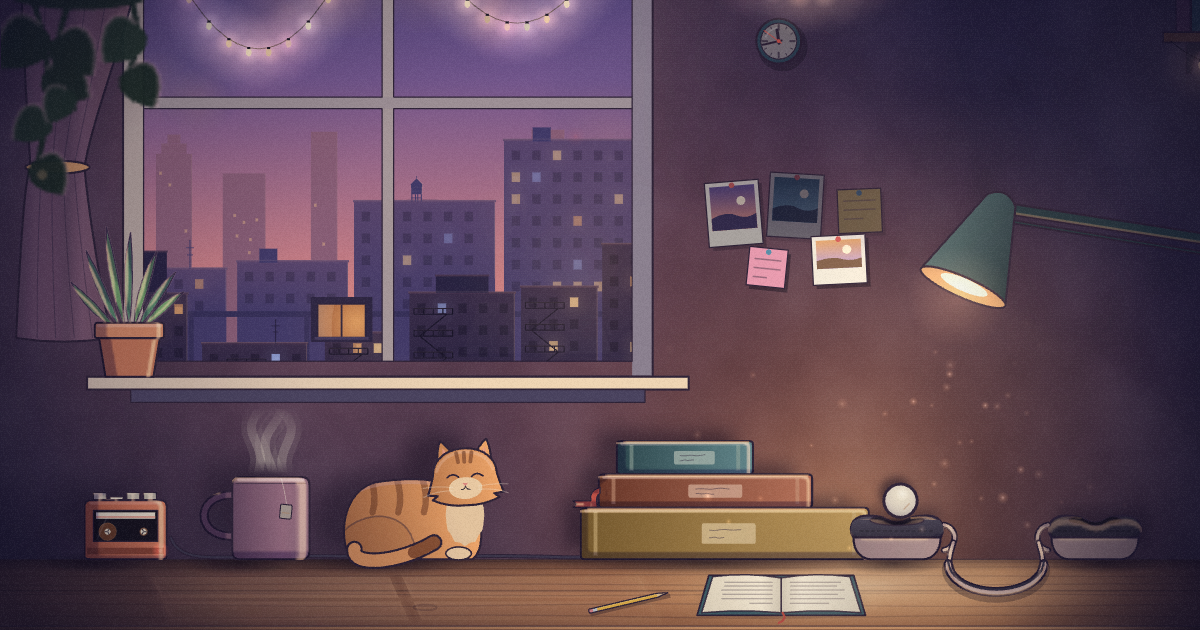
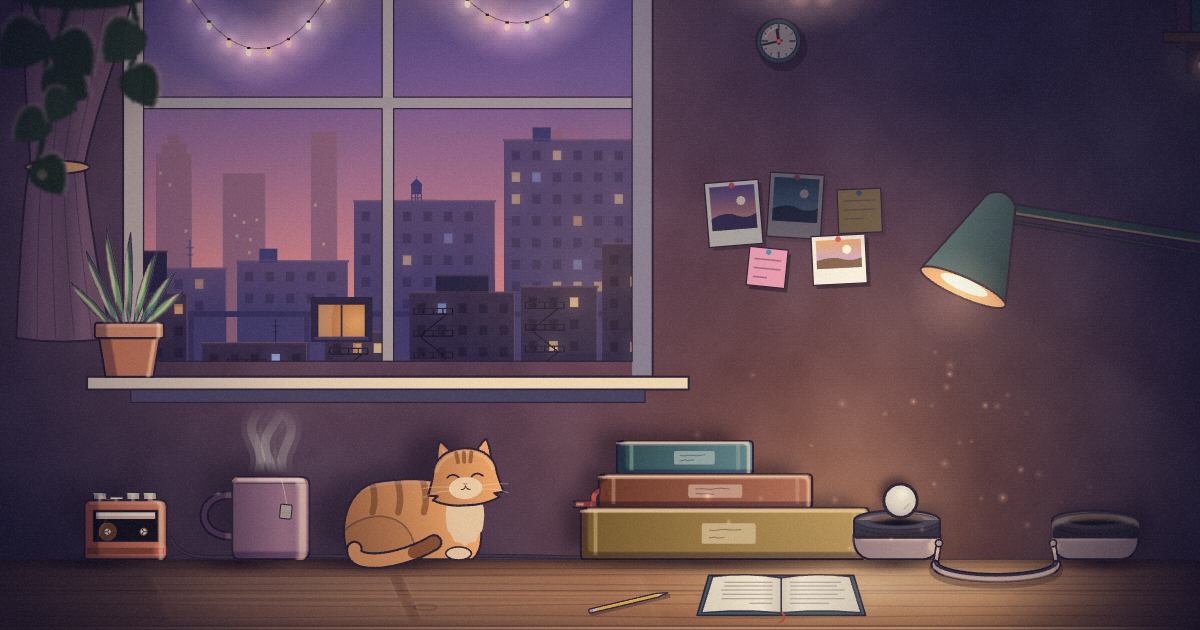
Soft Lamp: headphones at last, and the kitten on its feet
The ear cups are drawn face up as the desk is seen: each cushion an oval ring
round its speaker cloth (the ball's seat, unchanged), its side a band of
fabric down to the shell. Pivots and slider arms replace the ring yokes that
read as mug handles, and the band lies in a shallow U. A cold look now reads
'a pair of over-ear headphones lying on the desk, cups up'. Standing, the
kitten's body gathers under it and its hind legs bend at the hock.

Changed region(s): [[0.7092, 0.8143, 0.9558, 0.9651]]

diff --git a/apps/rube/src/shows/versions/soft-lamp/lamp/scene.ts b/apps/rube/src/shows/versions/soft-lamp/lamp/scene.ts
@@ -2,7 +2,7 @@ import type p5 from 'p5'
 import { mixHex, type Piece, type PieceCtx } from '../../../../parts'
 import { BOOKS, CAT, CUP, DESK, FAR_CUP, GLASS, LAMP, MUG, POT, PROPS, R, SILL, WALKMAN, WINDOW, type Book } from './desk'
 import { MUSIC_END, heldAt, smooth } from './music'
-import { LANDINGS, NODS, SHOULDER, ballAt, squashAt } from './route'
+import { LANDINGS, NODS, ballAt, squashAt } from './route'
 import { cat, climbAt } from './cat'
 import { formed, plaster } from './form'
 import { openBook } from './book'
@@ -602,19 +602,73 @@ const SHELL_LIT = '#EDC9AE'
 const PAD = '#221E2A'
 const PAD_LIT = '#4E4858'
 
-/** The near cup's cushion, from the side: a soft pad with rounded shoulders and a hollow between them. */
+/**
+ * A cup's cushion, lying face up, seen a little from above as the desk is: its top an oval ring round the speaker
+ * cloth (the ball's seat, `CLOTH`), and below its front edge, the cushion's side, a thin band of the fabric down to the
+ * shell. `top` is where the cushion's top is pressed to (the kick, the snare).
+ */
+const PAD_RY = 0.075
+const padRX = (): number => CUP.halfW * 0.94 - 0.005
+const cloth = (top: number) => ({ cy: top + 0.035, rx: CUP.halfW * 0.94 * 0.62, ry: 0.042 })
 function cushionPath(ctx: Ctx, top: number, x = CUP.x): void {
-  const w = CUP.halfW
-  const s = SHOULDER
+  const rx = padRX()
+  const cy = top + 0.035
   const base = CUP.top + 0.17
   ctx.beginPath()
-  ctx.moveTo(x - w + 0.02, base)
-  ctx.bezierCurveTo(x - w - 0.03, base - 0.08, x - w + 0.02, top, x - s - 0.02, top)
-  ctx.quadraticCurveTo(x - s * 0.55, top, x - s * 0.4, top + CUP.hollow * 0.45)
-  ctx.quadraticCurveTo(x, top + CUP.hollow * 1.35, x + s * 0.4, top + CUP.hollow * 0.45)
-  ctx.quadraticCurveTo(x + s * 0.55, top, x + s + 0.02, top)
-  ctx.bezierCurveTo(x + w - 0.02, top, x + w + 0.03, base - 0.08, x + w - 0.02, base)
+  ctx.moveTo(x - rx, base - 0.012)
+  ctx.lineTo(x - rx, cy)
+  ctx.ellipse(x, cy, rx, PAD_RY, 0, Math.PI, Math.PI * 2)
+  ctx.lineTo(x + rx, base - 0.012)
+  ctx.quadraticCurveTo(x + rx, base, x + rx - 0.02, base)
+  ctx.lineTo(x - rx + 0.02, base)
+  ctx.quadraticCurveTo(x - rx, base, x - rx, base - 0.012)
   ctx.closePath()
+}
+
+/**
+ * The cushion's fabric, all but the cloth: its side band, its top ring lighter where it faces up, the edge between
+ * them, the stitched seam round its side, and the lamp along its far rim toward it. Drawn whole for the cup, and again
+ * over the ball's foot for the lip.
+ */
+function padFabric(ctx: Ctx, lw: number, x: number, top: number, l: number, side: 1 | -1, warm: string): void {
+  const rx = padRX()
+  const cy = top + 0.035
+  const base = CUP.top + 0.17
+  // The side band.
+  cushionPath(ctx, top, x)
+  const sg = ctx.createLinearGradient(0, cy, 0, base)
+  sg.addColorStop(0, lit(PAD, PAD_LIT, l * 0.75))
+  sg.addColorStop(1, lit(PAD, PAD_LIT, l * 0.35))
+  ctx.fillStyle = sg
+  ctx.fill()
+  // The top ring, facing up into the light.
+  ctx.beginPath()
+  ctx.ellipse(x, cy, rx, PAD_RY, 0, 0, Math.PI * 2)
+  const tg = ctx.createLinearGradient(x - side * rx, 0, x + side * rx, 0)
+  tg.addColorStop(0, lit(PAD, PAD_LIT, l * 0.85 + 0.05))
+  tg.addColorStop(1, lit(PAD, PAD_LIT, Math.min(1, l * 1.15 + 0.1)))
+  ctx.fillStyle = tg
+  ctx.fill()
+  // Its front edge, where the top turns down into the side.
+  ctx.beginPath()
+  ctx.ellipse(x, cy, rx, PAD_RY, 0, 0, Math.PI)
+  ctx.lineWidth = lw * 0.7
+  ctx.strokeStyle = rgba(INK, 0.6)
+  ctx.stroke()
+  // The seam, round the side.
+  ctx.setLineDash([0.025, 0.02])
+  ctx.beginPath()
+  ctx.ellipse(x, cy + (base - cy - PAD_RY) * 0.45 + 0.01, rx - 0.01, PAD_RY, 0, Math.PI * 0.08, Math.PI * 0.92)
+  ctx.lineWidth = lw * 0.5
+  ctx.strokeStyle = rgba('#000000', 0.32)
+  ctx.stroke()
+  ctx.setLineDash([])
+  // The lamp along its far rim, on the side toward it.
+  ctx.beginPath()
+  ctx.ellipse(x, cy, rx - 0.012, PAD_RY - 0.01, 0, side > 0 ? Math.PI * 1.55 : Math.PI * 1.05, side > 0 ? Math.PI * 1.95 : Math.PI * 1.45)
+  ctx.lineWidth = 0.014
+  ctx.strokeStyle = rgba(warm, 0.5 * l)
+  ctx.stroke()
 }
 
 function headphones(ctx: Ctx, lw: number, t: number): void {
@@ -626,33 +680,30 @@ function headphones(ctx: Ctx, lw: number, t: number): void {
   // A pair, set down face up: both cups on their backs, cushions up, the band standing between them from yoke to yoke.
   // Each cup hangs in a yoke, a fork round its middle on the side toward the other.
   const w = CUP.halfW * 0.94
-  const nearYoke = { x: CUP.x + w + 0.01, y: CUP.top + 0.17, r: 0.1 }
   const fx = FAR_CUP.x
   const farTop = -FAR_CUP.h + farPress(t)
-  const farYoke = { x: fx - w - 0.01, y: CUP.top + 0.17, r: 0.1 }
-  const a = { x: nearYoke.x + nearYoke.r, y: nearYoke.y }
-  const b = { x: farYoke.x - farYoke.r, y: farYoke.y }
-  // The band, lying flat on the desk as headphones set down face up lie: from each yoke down onto the wood and round
-  // toward us in a U, the cream of its outside and the dark of its padding along its inner edge, the lamp along its
-  // near rim. Drawn last, over the cups' feet, being nearer.
-  // A half oval on the wood: its ends at the cups' feet, its round toward us.
-  const ex = (a.x + b.x) / 2
-  const erx = (b.x - a.x) / 2 + 0.05
-  const ery = DESK.top * 0.42
-  const ey = DESK.y + 0.035
+  // Each cup hangs by a pivot on its side toward the other, a slider arm from it down to the band.
+  const pivots = [{ x: CUP.x + w - 0.012, y: CUP.top + 0.215 }, { x: fx - w + 0.012, y: CUP.top + 0.215 }]
+  // The band, lying flat on the desk as headphones set down face up lie: from each arm round toward us in a shallow U
+  // on the wood, the cream of its outside and the dark of its padding along its inner edge, the lamp along its near
+  // rim. Drawn last, over the cups' feet, being nearer.
+  const ex = (pivots[0].x + pivots[1].x) / 2
+  const erx = (pivots[1].x - pivots[0].x) / 2 + 0.03
+  const ery = DESK.top * 0.2
+  const ey = DESK.y + 0.04
   const band = (dy = 0) => {
     ctx.beginPath()
     ctx.ellipse(ex, ey + dy, erx, ery, 0, 0, Math.PI)
   }
-  // Each yoke's arm down to it, beside the cup.
+  // The arms: from each pivot, down the cup's side, to the band's ends on the wood.
   const arms = () => {
     ctx.beginPath()
-    ctx.moveTo(a.x - 0.01, a.y + 0.04)
-    ctx.quadraticCurveTo(a.x - 0.04, ey - 0.08, ex - erx + 0.005, ey)
-    ctx.moveTo(b.x + 0.01, b.y + 0.04)
-    ctx.quadraticCurveTo(b.x + 0.04, ey - 0.08, ex + erx - 0.005, ey)
+    ctx.moveTo(pivots[0].x, pivots[0].y)
+    ctx.lineTo(ex - erx + 0.004, ey - 0.005)
+    ctx.moveTo(pivots[1].x, pivots[1].y)
+    ctx.lineTo(ex + erx - 0.004, ey - 0.005)
   }
-  const bl = lightAt((a.x + b.x) / 2, 0.1, 0) * lamp
+  const bl = lightAt(ex, 0.1, 0) * lamp
   const drawBand = () => {
     arms()
     ctx.lineWidth = 0.05
@@ -688,14 +739,14 @@ function headphones(ctx: Ctx, lw: number, t: number): void {
     ctx.stroke()
   }
   // A yoke: a fork round the cup's middle, its arm up into the band.
-  const yoke = (y: { x: number; y: number; r: number }, from: number, to: number, k: number) => {
+  // A pivot: the screw the cup turns on, where its arm meets it.
+  const pivot = (p: { x: number; y: number }, k: number) => {
     ctx.beginPath()
-    ctx.arc(y.x, y.y, y.r, from, to)
-    ctx.lineWidth = 0.05
+    ctx.arc(p.x, p.y, 0.028, 0, Math.PI * 2)
+    ctx.fillStyle = shell(k)
+    ctx.fill()
+    ctx.lineWidth = lw * 0.8
     ctx.strokeStyle = INK
-    ctx.stroke()
-    ctx.lineWidth = 0.05 - lw * 1.6
-    ctx.strokeStyle = shell(k)
     ctx.stroke()
   }
   // One cup on its back: a shallow rounded shell, rim up, the lamp along its rim, and its cushion.
@@ -720,51 +771,28 @@ function headphones(ctx: Ctx, lw: number, t: number): void {
     ctx.lineWidth = 0.014
     ctx.strokeStyle = rgba(warm, 0.55 * l)
     ctx.stroke()
-    cushionPath(ctx, cTop, x)
-    const pg = ctx.createLinearGradient(0, cTop, 0, CUP.top + 0.17)
-    pg.addColorStop(0, lit(PAD, PAD_LIT, l))
-    pg.addColorStop(1, lit(PAD, PAD_LIT, l * 0.5))
-    ctx.fillStyle = pg
+    padFabric(ctx, lw, x, cTop, l, side, warm)
+    // The speaker cloth in the ring's middle, darker: the ball's seat.
+    const c = cloth(cTop)
+    ctx.beginPath()
+    ctx.ellipse(x, c.cy, c.rx, c.ry, 0, 0, Math.PI * 2)
+    ctx.fillStyle = lit('#120E18', '#2E2636', l * 0.6)
     ctx.fill()
-    stroke(ctx, lw)
-    // Its face, seen a little from above: the pad a ring round the darker speaker cloth; and the stitched seam.
-    ctx.save()
+    ctx.lineWidth = lw * 0.7
+    ctx.strokeStyle = rgba(INK, 0.7)
+    ctx.stroke()
     cushionPath(ctx, cTop, x)
-    ctx.clip()
-    {
-      ctx.beginPath()
-      ctx.ellipse(x, cTop + 0.035, w * 0.62, 0.042, 0, 0, Math.PI * 2)
-      ctx.fillStyle = lit('#120E18', '#2E2636', l * 0.6)
-      ctx.fill()
-      ctx.lineWidth = lw * 0.7
-      ctx.strokeStyle = rgba(INK, 0.7)
-      ctx.stroke()
-    }
-    ctx.setLineDash([0.025, 0.02])
-    ctx.beginPath()
-    ctx.moveTo(x - w + 0.05, CUP.top + 0.12)
-    ctx.lineTo(x + w - 0.05, CUP.top + 0.12)
-    ctx.lineWidth = lw * 0.5
-    ctx.strokeStyle = rgba('#000000', 0.35)
-    ctx.stroke()
-    ctx.restore()
-    // The lamp along the pad's shoulder toward it.
-    ctx.beginPath()
-    ctx.moveTo(x + side * SHOULDER * 0.5, cTop + 0.02)
-    ctx.quadraticCurveTo(x + side * (SHOULDER + 0.06), cTop - 0.005, x + side * (CUP.halfW - 0.02), cTop + 0.07)
-    ctx.lineWidth = 0.016
-    ctx.strokeStyle = rgba(warm, 0.45 * l)
-    ctx.stroke()
+    stroke(ctx, lw)
   }
   // The far cup: the near one's twin, its cushion pressed a little by each snare the music strikes.
   const fl = lightAt(fx, -0.15) * lamp
   cup(fx, farTop, fl, -1)
-  yoke(farYoke, Math.PI * 0.55, Math.PI * 1.45, fl * 0.8 + 0.1)
   // The near cup, the ball's seat, its cushion pushed by the kick.
   const l = lightAt(CUP.x, -0.15) * lamp
   cup(CUP.x, top, l, 1)
-  yoke(nearYoke, -Math.PI * 0.45, Math.PI * 0.45, l * 0.9 + 0.12)
   drawBand()
+  pivot(pivots[1], fl * 0.8 + 0.1)
+  pivot(pivots[0], l * 0.9 + 0.12)
 }
 
 /**
@@ -828,45 +856,37 @@ function lip(ctx: Ctx, lw: number, t: number): void {
   if (Math.abs(b.x - CUP.x) > CUP.halfW + R || b.y < CUP.top - 2 * R - 0.05) return
   const lamp = lampAt(t)
   const top = CUP.top + cushion(t)
-  // The front of the cushion's ring, over the ball: everything of the cushion in front of the hollow's near edge (the
-  // front arc of the dark ellipse `headphones` draws), so the ball sits down in it.
-  const w = CUP.halfW * 0.94
+  // The front of the cushion's ring, over the ball: everything of the cushion in front of the cloth's near edge, so the
+  // ball sits down in it.
+  const c = cloth(top)
   const cx = CUP.x
-  const cy = top + 0.035
-  const rx = w * 0.62
-  const ry = 0.042
   ctx.save()
   cushionPath(ctx, top)
   ctx.clip()
   ctx.beginPath()
-  ctx.moveTo(cx - CUP.halfW - 0.1, cy)
-  ctx.lineTo(cx - rx, cy)
-  ctx.ellipse(cx, cy, rx, ry, 0, Math.PI, 0, true)
-  ctx.lineTo(cx + CUP.halfW + 0.1, cy)
-  // (Down to just above the shell's bright rim, which stays.)
-  ctx.lineTo(cx + CUP.halfW + 0.1, CUP.top + 0.142)
-  ctx.lineTo(cx - CUP.halfW - 0.1, CUP.top + 0.142)
+  ctx.moveTo(cx - CUP.halfW - 0.1, c.cy)
+  ctx.lineTo(cx - c.rx, c.cy)
+  ctx.ellipse(cx, c.cy, c.rx, c.ry, 0, Math.PI, 0, true)
+  ctx.lineTo(cx + CUP.halfW + 0.1, c.cy)
+  ctx.lineTo(cx + CUP.halfW + 0.1, CUP.top + 0.2)
+  ctx.lineTo(cx - CUP.halfW - 0.1, CUP.top + 0.2)
   ctx.closePath()
-  // The cushion's own shading, top to foot, so the lip is the cushion and not a patch on it.
-  const l = lightAt(CUP.x, -0.15) * lamp
-  const pg = ctx.createLinearGradient(0, top, 0, CUP.top + 0.17)
-  pg.addColorStop(0, lit(PAD, PAD_LIT, l))
-  pg.addColorStop(1, lit(PAD, PAD_LIT, l * 0.5))
-  ctx.fillStyle = pg
-  ctx.fill()
-  // The hollow's near edge, and the stitched seam the lip would otherwise cover.
+  ctx.clip()
+  padFabric(ctx, lw, cx, top, lightAt(CUP.x, -0.15) * lamp, 1, lampColor(t))
+  // The cloth's near edge.
   ctx.beginPath()
-  ctx.ellipse(cx, cy, rx, ry, 0, Math.PI, 0, true)
+  ctx.ellipse(cx, c.cy, c.rx, c.ry, 0, Math.PI, 0, true)
   ctx.lineWidth = lw * 0.7
   ctx.strokeStyle = rgba(INK, 0.7)
   ctx.stroke()
-  ctx.setLineDash([0.025, 0.02])
+  ctx.restore()
+  // The cushion's outline over it again, where the clip cut it.
+  ctx.save()
   ctx.beginPath()
-  ctx.moveTo(cx - w + 0.05, CUP.top + 0.12)
-  ctx.lineTo(cx + w - 0.05, CUP.top + 0.12)
-  ctx.lineWidth = lw * 0.5
-  ctx.strokeStyle = rgba('#000000', 0.35)
-  ctx.stroke()
+  ctx.rect(cx - CUP.halfW - 0.1, c.cy, CUP.halfW * 2 + 0.2, 0.3)
+  ctx.clip()
+  cushionPath(ctx, top)
+  stroke(ctx, lw)
   ctx.restore()
 }
 

diff --git a/apps/rube/src/shows/versions/soft-lamp/lamp/cat.ts b/apps/rube/src/shows/versions/soft-lamp/lamp/cat.ts
@@ -498,7 +498,9 @@ function catAt(ctx: Ctx, lw: number, t: number, c: ReturnType<typeof climbAt>): 
   const raise = (i: number) => c.walk * 0.07 * Math.max(0, Math.sin(gait(i)))
   const L = 0.27 * st.up + c.walk * 0.015 * Math.abs(Math.cos(c.phase))
   const tipF = 0.17 * st.out
-  const long = 1 + 0.14 * st.out
+  // Up on its feet a cat gathers its length under it: shorter in the body than lying out in a loaf (and longer again
+  // reaching out in a stretch).
+  const long = 1 - 0.16 * st.up * (1 - st.out) + 0.14 * st.out
   const REAR = x0 + 0.12
   const T = (x: number, y: number) => {
     const u = (x - REAR) * long
@@ -586,7 +588,8 @@ function catAt(ctx: Ctx, lw: number, t: number, c: ReturnType<typeof climbAt>): 
     }
     for (const [i, [hx, k]] of ([[x0 + 0.42, 0.45], [x0 + 0.24, 0.6]] as const).entries()) {
       const hip = T(hx, -0.08)
-      leg(hip, { x: hip.x - 0.02 + step(i), y: -0.005 - raise(i) }, 0.17, k, 0, -0.9 * raise(i))
+      // The hind leg bends back at the hock, as a cat's does standing, more as the foot lifts.
+      leg(hip, { x: hip.x - 0.02 + step(i), y: -0.005 - raise(i) }, 0.17, k, 0, -0.07 * st.up - 0.9 * raise(i))
     }
     for (const [i, [fx, k, ahead]] of ([[chest - 0.06, 0.7, 0.04], [chest - 0.2, 0.95, 0]] as const).entries()) {
       const sh = T(fx, -0.08)

diff --git a/apps/rube/src/shows/versions/soft-lamp/SOFTLAMP.md b/apps/rube/src/shows/versions/soft-lamp/SOFTLAMP.md
@@ -1492,6 +1492,28 @@ its drawing is redone (`lamp/cat.ts`):
 244. **The moonlight on the desk** read as two grey sheets laid on the wood: it is brightest in its middle now and
      falls away to its ends and its far edge, a soft halo round each pane, the wood's grain through it.
 
+### The eighty-sixth pass: headphones at last, and the kitten on its feet
+
+245. **Ear cups, face up** (`cushionPath`, `padFabric`, `cloth`, `scene.ts`). Every reviewer since the first had read the
+     headphones as something else: dishes, bowls, a kettle, pastries ("an éclair or donut sitting in a bowl"). The
+     cushions were drawn side on, a pad with lumpy shoulders round a dip. Now that the desk is seen a little from above,
+     they are drawn so: each cushion's top an oval ring round its dark speaker cloth, lighter where it faces up, the
+     lamp along its far rim; under the ring's front edge the cushion's side, a thin band of the fabric with its seam
+     round it, down to the cream shell. The cloth is where the ball's seat always was, so its route is unchanged, and
+     the lip that the ball sits down behind is the same fabric, drawn again over its foot.
+246. **Pivots, not handles.** A cold look at that read "two teacups joined by a wire handle": the yokes, rings round
+     each cup's side, were mugs' handles. Each cup now turns on a pivot screw on its side, a short slider arm from it
+     down to the band; and the band lies in a shallower U on the wood beside them, as a band does lying flat (the deep
+     U read as hanging off the desk's edge).
+     A second cold look, the crop alone and before anything else: "a pair of over-ear headphones lying on the desk, cups
+     up, with the headband curving toward the viewer." The first reviewer to say so unprompted.
+247. **The kitten on its feet.** Standing, walking to the sill, it kept the loaf's whole length on four straight legs
+     ("a dachshund or a table"): up on its feet its body gathers under it now, shorter, and its hind legs bend back at
+     the hock.
+
+Left as it is: the ball, which every cold look reads as a pearl or a marble on the cup. It is the machine, and the
+machine is the brief.
+
 ## Judgment calls for Stephen
 
 - **The near pothos.** A framing device, the one thing nearer than the room; it is one call (`foreground`, in
